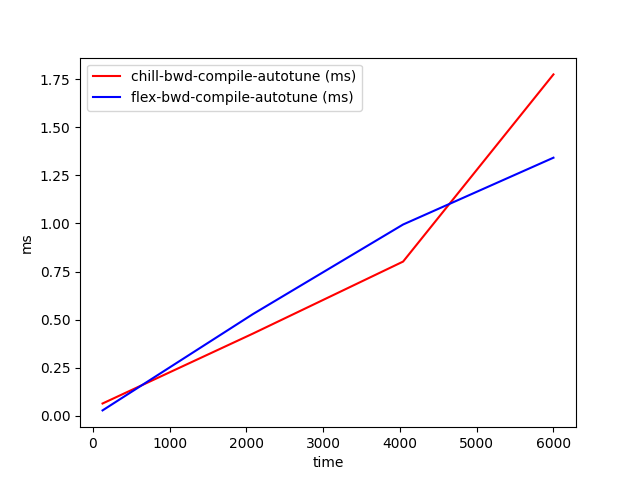
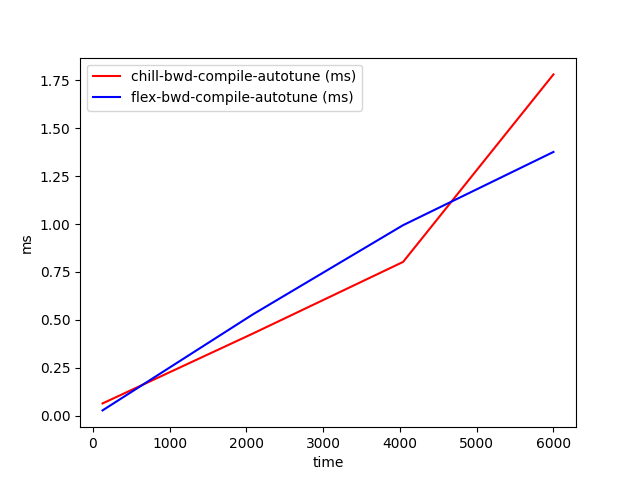
precompute

diff --git a/chill_attention/utils.py b/chill_attention/utils.py
@@ -89,6 +89,7 @@ def _chill_attn_bwd_precompute(
     DTYPE: tl.constexpr,  #
     TILE_SIZE: tl.constexpr,
     BLOCK_DIVISIBLE: tl.constexpr,  #
+    USE_TMA: tl.constexpr,  #
 ):
     """
     Precompute operation for attention backward pass.
@@ -115,52 +116,90 @@ def _chill_attn_bwd_precompute(
     token_idx = tile * TILE_SIZE
 
     obatch_head_offset = batch * stride_ob + head * stride_oh
-    o_tile_ptr = tl.make_block_ptr(
-        base=O + obatch_head_offset,
-        shape=(T, HEAD_DIM),
-        strides=(stride_ot, stride_ok),
-        offsets=(token_idx, 0),
-        block_shape=(TILE_SIZE, HEAD_DIM),
-        order=(1, 0),
-    )
-
-    dobatch_head_offset = batch * stride_dob + head * stride_doh
-    do_tile_ptr = tl.make_block_ptr(
-        base=DO + dobatch_head_offset,
-        shape=(T, HEAD_DIM),
-        strides=(stride_dot, stride_dok),
-        offsets=(token_idx, 0),
-        block_shape=(TILE_SIZE, HEAD_DIM),
-        order=(1, 0),
-    )
-
-    if BLOCK_DIVISIBLE:
-        o_tile = tl.load(
-            o_tile_ptr,
-        )
-        do_tile = tl.load(
-            do_tile_ptr,
+    if USE_TMA:
+        o_tile_ptr = tl.make_tensor_descriptor(
+            base=O + obatch_head_offset,
+            shape=(T, HEAD_DIM),
+            strides=(stride_ot, stride_ok),
+            block_shape=(TILE_SIZE, HEAD_DIM),
         )
     else:
-        o_tile = tl.load(o_tile_ptr, boundary_check=(0,))
-        do_tile = tl.load(do_tile_ptr, boundary_check=(0,))
+        o_tile_ptr = tl.make_block_ptr(
+            base=O + obatch_head_offset,
+            shape=(T, HEAD_DIM),
+            strides=(stride_ot, stride_ok),
+            offsets=(token_idx, 0),
+            block_shape=(TILE_SIZE, HEAD_DIM),
+            order=(1, 0),
+        )
+
+    dobatch_head_offset = batch * stride_dob + head * stride_doh
+    if USE_TMA:
+        do_tile_ptr = tl.make_tensor_descriptor(
+            base=DO + dobatch_head_offset,
+            shape=(T, HEAD_DIM),
+            strides=(stride_dot, stride_dok),
+            block_shape=(TILE_SIZE, HEAD_DIM),
+        )
+    else:
+        do_tile_ptr = tl.make_block_ptr(
+            base=DO + dobatch_head_offset,
+            shape=(T, HEAD_DIM),
+            strides=(stride_dot, stride_dok),
+            offsets=(token_idx, 0),
+            block_shape=(TILE_SIZE, HEAD_DIM),
+            order=(1, 0),
+        )
+
+    if USE_TMA:
+        o_tile = tl.load_tensor_descriptor(
+            o_tile_ptr,
+            offsets=(token_idx, 0),
+        )
+        do_tile = tl.load_tensor_descriptor(
+            do_tile_ptr,
+            offsets=(token_idx, 0),
+        )
+    else:
+        if BLOCK_DIVISIBLE:
+            o_tile = tl.load(
+                o_tile_ptr,
+            )
+            do_tile = tl.load(
+                do_tile_ptr,
+            )
+        else:
+            o_tile = tl.load(o_tile_ptr, boundary_check=(0,))
+            do_tile = tl.load(do_tile_ptr, boundary_check=(0,))
 
     res = tl.sum(o_tile.to(tl.float32) * do_tile.to(tl.float32), 1)
 
     rbatch_head_offset = batch * stride_rb + head * stride_rh
-    res_ptr = tl.make_block_ptr(
-        base=RES + rbatch_head_offset,
-        shape=(T,),
-        strides=(stride_rt,),
-        offsets=(token_idx,),
-        block_shape=(TILE_SIZE,),
-        order=(0,),
-    )
-
-    if BLOCK_DIVISIBLE:
-        tl.store(res_ptr, res)
+    if USE_TMA:
+        res_ptr = tl.make_tensor_descriptor(
+            base=RES + rbatch_head_offset,
+            shape=(T,),
+            strides=(stride_rt,),
+            block_shape=(TILE_SIZE,),
+        )
+        res_ptr.store(
+            offsets=(token_idx,),
+            value=res,
+        )
     else:
-        tl.store(res_ptr, res, boundary_check=(0,))
+        res_ptr = tl.make_block_ptr(
+            base=RES + rbatch_head_offset,
+            shape=(T,),
+            strides=(stride_rt,),
+            offsets=(token_idx,),
+            block_shape=(TILE_SIZE,),
+            order=(0,),
+        )
+
+        if BLOCK_DIVISIBLE:
+            tl.store(res_ptr, res)
+        else:
+            tl.store(res_ptr, res, boundary_check=(0,))
 
 
 @triton.jit

diff --git a/chill_attention/chill.py b/chill_attention/chill.py
@@ -253,6 +253,18 @@ def register_chill_mask(mask: ChillMask):
         def grid(args):
             return batch, heads, triton.cdiv(T, args["TILE_SIZE"])
 
+        use_precompute_tma = (
+            o.stride(-1) == 1
+            and o.stride(0) % 16 == 0
+            and o.stride(1) % 16 == 0
+            and do.stride(-1) == 1
+            and do.stride(0) % 16 == 0
+            and do.stride(1) % 16 == 0
+            and delta.stride(-1) == 1
+            and delta.stride(0) % 16 == 0
+            and delta.stride(1) % 16 == 0
+        )
+
         _chill_attn_bwd_precompute[grid](
             o,
             do,
@@ -264,6 +276,7 @@ def register_chill_mask(mask: ChillMask):
             HEAD_DIM=HEAD_DIM,
             DTYPE=q.dtype,
             TIME_BUCKET=triton.next_power_of_2(T),
+            USE_TMA=use_precompute_tma,
         )
 
         DQ = torch.zeros_like(q, memory_format=torch.contiguous_format)
